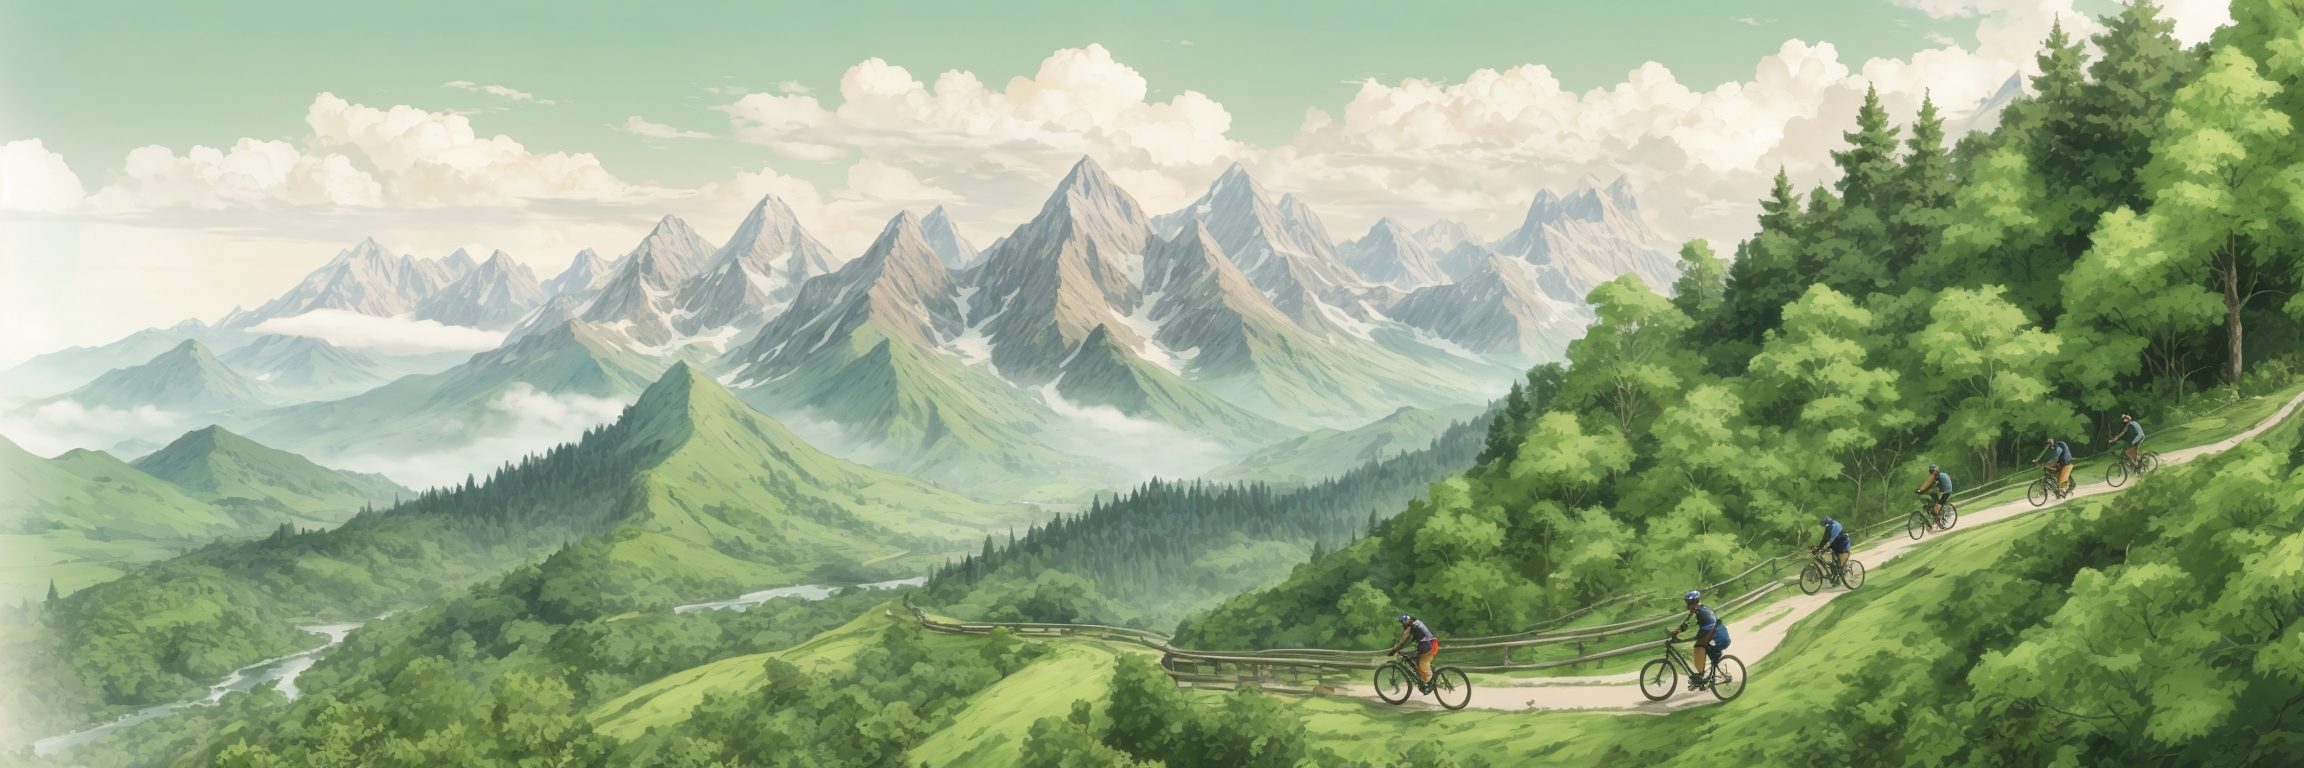
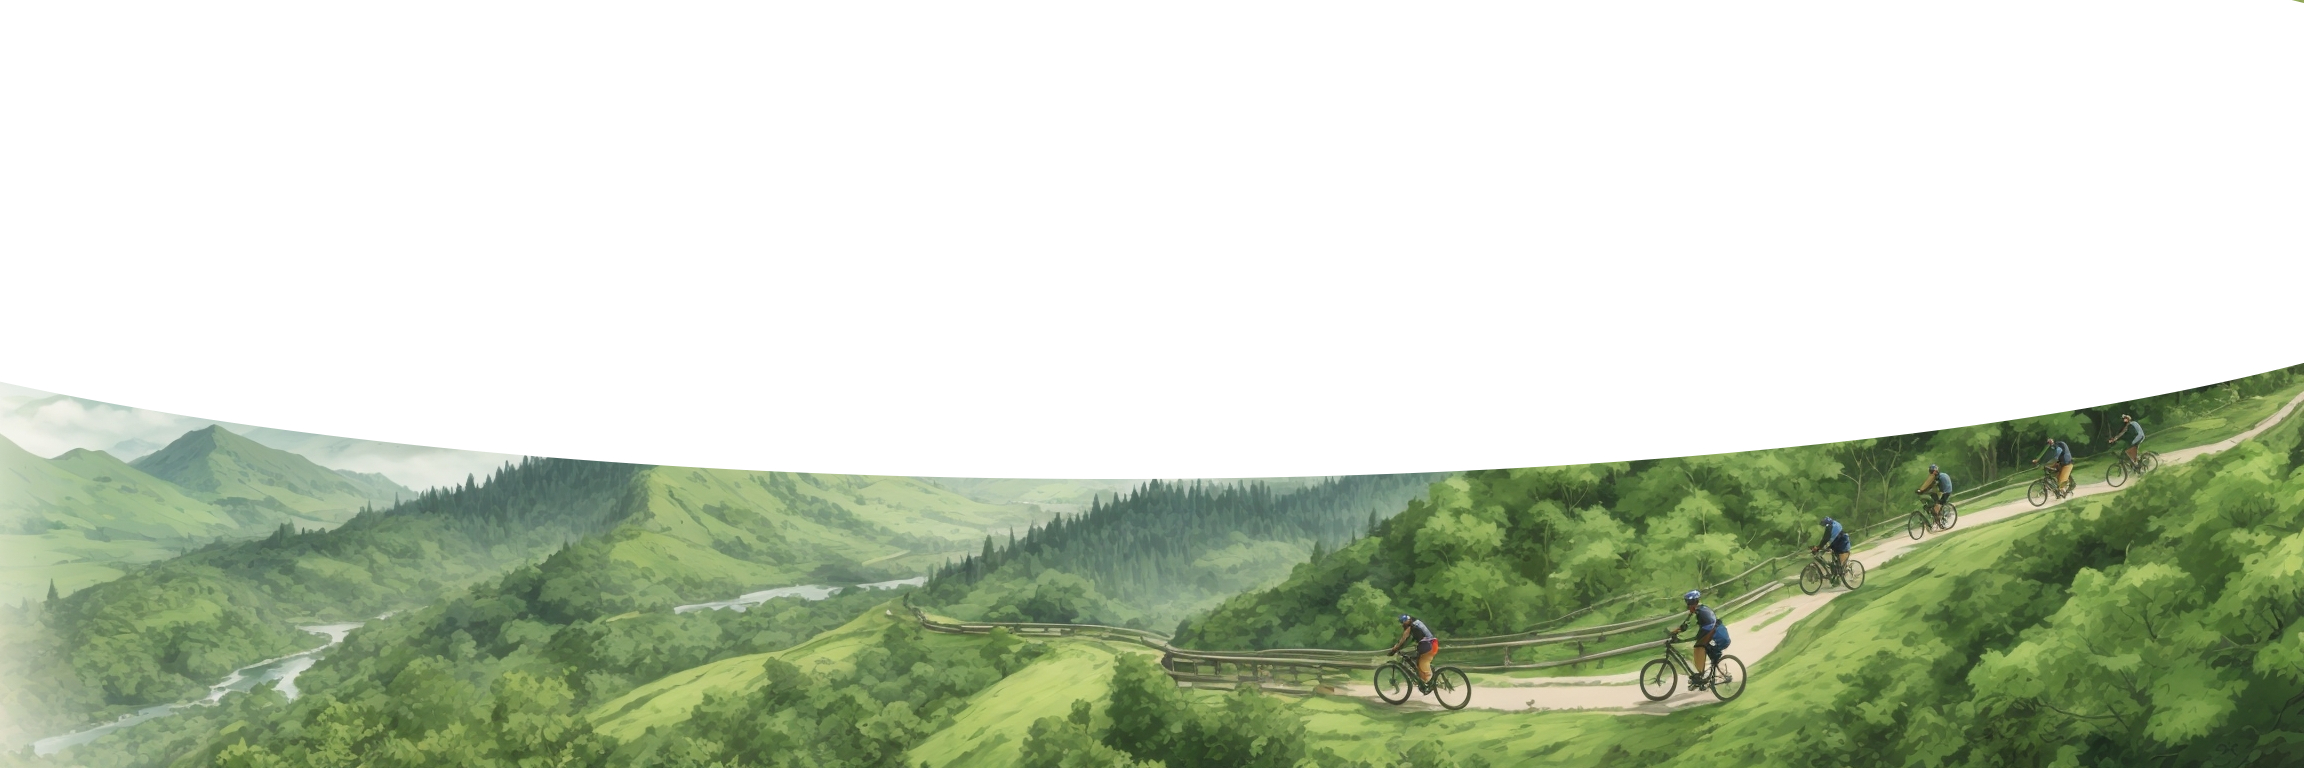
5

diff --git a/src/Components/Checkout.jsx b/src/Components/Checkout.jsx
@@ -1,13 +1,37 @@
-import styles from "../Styles/Checkout.module.css";
+import { useDispatch } from "react-redux";
+import { useLocation } from "react-router-dom";
+import { bookReservation } from "../State/Reducers/reservations.slice";
 import Header from "./Header";
 import Footer from "./Footer";
-import { useLocation } from "react-router-dom";
+import styles from "../Styles/Checkout.module.css";
 const Checkout = () => {
   const location = useLocation();
   const { totalPrice, formattedStartDate, formattedEndDate, name } =
     location.state;
+  const dispatch = useDispatch();
   const handleSubmit = (event) => {
     event.preventDefault();
+
+    const formData = {
+      firstName: event.target.elements.firstName.value,
+      lastName: event.target.elements.lastName.value,
+      companyName: event.target.elements.companyName.value,
+      country: event.target.elements.country.value,
+      street: event.target.elements.street.value,
+      postalCode: event.target.elements.postalCode.value,
+      city: event.target.elements.city.value,
+      phone: event.target.elements.phone.value,
+      email: event.target.elements.email.value,
+    };
+
+    dispatch(
+      bookReservation(
+        formData,
+        totalPrice,
+        formattedStartDate,
+        formattedEndDate
+      )
+    );
   };
   return (
     <div className={styles.checkout}>
@@ -72,7 +96,7 @@ const Checkout = () => {
                 <input className={styles.checkout_checkbox} type="checkbox" />
                 Płatność na miejscu
               </span>
-              <button type="sumbit" className={styles.checkout_sumbit}>
+              <button type="submit" className={styles.checkout_sumbit}>
                 Kupuję i płacę
               </button>
             </div>

diff --git a/src/Components/Reservation.jsx b/src/Components/Reservation.jsx
@@ -7,7 +7,7 @@ import {
   setPeriod,
   setSelectedDates,
   setReservedIndex,
-} from "../State/Reducers/bikesSlice.js";
+} from "../State/Reducers/bikes.slice.js";
 import "react-datepicker/dist/react-datepicker.css";
 import styles from "../Styles/Reservation.module.css";
 import { FaCalendar } from "react-icons/fa";
@@ -16,6 +16,8 @@ const Reservation = ({ index }) => {
   const dispatch = useDispatch();
   const selectedDates = useSelector((state) => state.bikes.selectedDates);
   const period = useSelector((state) => state.bikes.period);
+  const price = useSelector((state) => state.bikes.bikeInfo.price);
+  const totalPrice = period * price;
   const handleChange = (date, key) => {
     const timestamp = date.getTime();
     dispatch(setSelectedDates({ index, [key]: timestamp }));
@@ -56,6 +58,7 @@ const Reservation = ({ index }) => {
             </select>
             <FaCalendar className={styles.select_calendar} />
           </div>
+          <h3 className={styles.price}>Cena : {totalPrice}zł</h3>
         </div>
 
         <Link to={"/cart"}>

diff --git a/src/Styles/Header.module.css b/src/Styles/Header.module.css
@@ -1,17 +1,19 @@
 .header {
   display: flex;
-
+  align-items: center;
   background-color: transparent;
   color: black;
-
+  position: relative;
   width: 100vw;
   height: 60px;
   z-index: 9;
 }
 .header_p {
   margin-left: 100px;
+  font-size: 16px;
   text-decoration: underline;
   color: black;
+  display: none;
 }
 .hamburger_button {
   width: 56px;
@@ -20,4 +22,32 @@
   border: none;
   background-color: transparent;
   color: black;
+}
+.cart {
+  background-color: transparent;
+  position: absolute;
+  right: 10px;
+  top: 20px;
+}
+.logo {
+  width: 50px;
+  height: 50px;
+  border: 1px solid black;
+  margin-left: 40px;
+}
+@media screen and (min-width: 768px) {
+  .cart {
+    right: 180px;
+  }
+  .logo {
+    margin-left: 40px;
+  }
+  .header_p {
+    display: inline;
+  }
+}
+@media screen and (min-width: 1200px) {
+  .logo {
+    margin-left: 140px;
+  }
 }

diff --git a/src/Components/Header.jsx b/src/Components/Header.jsx
@@ -3,7 +3,7 @@ import { openMenu } from "../State/Actions/menu.actions.js";
 import Menu from "./Menu";
 import { Link } from "react-router-dom";
 import styles from "../Styles/Header.module.css";
-import { FaBars } from "react-icons/fa";
+import { FaBars, FaShoppingCart } from "react-icons/fa";
 
 const Header = () => {
   const isMenuOpen = useSelector((state) => state.menu.isMenuOpen);
@@ -20,6 +20,14 @@ const Header = () => {
       </button>
       <Link to={"/"}>
         <p className={styles.header_p}>Wypożyczalnia rowerów elektrycznych</p>
+      </Link>
+      <Link to={"/"}>
+        <div className={styles.logo}>LOGO</div>
+      </Link>
+      <Link to={"/cart"}>
+        <button className={styles.cart}>
+          <FaShoppingCart />
+        </button>
       </Link>
       {isMenuOpen && <Menu />}
     </div>

diff --git a/src/Components/Poster.jsx b/src/Components/Poster.jsx
@@ -1,5 +1,29 @@
+import { useState } from "react";
 import styles from "../Styles/Poster.module.css";
+
 const Poster = () => {
-  return <div className={styles.poster}></div>;
+  const [imageLoaded, setImageLoaded] = useState(false);
+  const isTablet = window.innerWidth >= 768;
+
+  const handleImageLoad = () => {
+    setImageLoaded(true);
+  };
+
+  return (
+    <div className={styles.poster}>
+      {!imageLoaded && <div className={styles.placeholder}></div>}
+      <img
+        src={
+          isTablet
+            ? "/assets/poster-shaped-tablet.jpg"
+            : "/assets/poster-shaped-mobile.jpg"
+        }
+        alt="Poster"
+        onLoad={handleImageLoad}
+        className={`${styles.image} ${imageLoaded ? styles.visible : ""}`}
+      />
+    </div>
+  );
 };
+
 export default Poster;

diff --git a/src/Components/AboutUs.jsx b/src/Components/AboutUs.jsx
@@ -2,12 +2,12 @@ import styles from "../Styles/AboutUs.module.css";
 const AboutUs = () => {
   return (
     <div className={styles.aboutus}>
-      <p className={styles.aboutus__p}>
-        Lorem ipsum dolor sit amet consectetur adipisicing elit. Natus numquam
-        voluptatum porro error ipsam optio assumenda blanditiis sint impedit
-        nobis veritatis neque facere ducimus, placeat, labore obcaecati
-        reprehenderit soluta magnam?
-      </p>
+      <h2>O nas :</h2>
+      <span className={styles.aboutus_span}>
+        Lorem, ipsum dolor sit amet consectetur adipisicing elit. Quisquam,
+        laboriosam ratione ipsam necessitatibus recusandae architecto iste quasi
+      </span>
+      <div className={styles.aboutus_wrapper}></div>
     </div>
   );
 };

diff --git a/src/Styles/Poster.module.css b/src/Styles/Poster.module.css
@@ -1,15 +1,31 @@
 .poster {
   height: 1056px;
   width: 100vw;
-  background-image: url("/assets/poster-mobile.jpg");
-  background-position: center;
-  background-size: cover;
+  position: relative;
+  overflow: hidden;
+}
+
+.placeholder {
+  filter: blur(10px);
+  width: 100%;
+  height: 100%;
+  position: absolute;
+  top: 0;
+  left: 0;
+}
+
+.image {
+  width: 100%;
+  height: 100%;
+  object-fit: cover;
+}
+
+.visible {
+  opacity: 1;
+  transition: opacity 0.5s ease-in-out;
 }
 @media screen and (min-width: 768px) {
   .poster {
-    background-image: url("/assets/poster-tablet.jpg");
-    height: 1536px;
+    height: 1568px;
   }
-}
-@media screen and (min-width: 1200px) {
 }

diff --git a/src/State/Reducers/reservations.slice.js b/src/State/Reducers/reservations.slice.js
@@ -1,0 +1,25 @@
+import { createSlice } from "@reduxjs/toolkit";
+
+export const reservationsSlice = createSlice({
+  name: "reservations",
+  initialState: {
+    data: [],
+  },
+  reducers: {
+    bookReservation: (state, action) => {
+      const { formData, name, startDate, endDate } = action.payload;
+      state.data.push({
+        formData,
+        name,
+        startDate,
+        endDate,
+      });
+    },
+  },
+});
+
+export const { bookReservation } = reservationsSlice.actions;
+
+export const selectReservations = (state) => state.reservations.data;
+
+export default reservationsSlice.reducer;

diff --git a/src/Styles/AboutUs.module.css b/src/Styles/AboutUs.module.css
@@ -2,10 +2,28 @@
   width: 100vw;
   height: 500px;
   margin-top: 200px;
-
+  position: relative;
   display: flex;
   justify-content: center;
+  flex-direction: column;
+  align-items: center;
 }
 .aboutus__p {
   max-width: 500px;
+}
+.aboutus_wrapper {
+  width: 320px;
+  height: 320px;
+  background-image: url("/assets/aboutus1.jpg");
+  background-position: center;
+  background-size: cover;
+  background-repeat: no-repeat;
+  border-radius: 50%;
+}
+.aboutus_span {
+  position: absolute;
+  top: 269px;
+  font-size: 10px;
+  z-index: 2;
+  width: 250px;
 }

diff --git a/src/State/Store/Store.js b/src/State/Store/Store.js
@@ -1,11 +1,13 @@
 import { configureStore } from "@reduxjs/toolkit";
-import bikesSlice from "../Reducers/bikesSlice";
-import menuSlice from "../Reducers/menuSlice";
+import bikesSlice from "../Reducers/bikes.slice";
+import menuSlice from "../Reducers/menu.slice";
+import reservationsSlice from "../Reducers/reservations.slice";
 
 const store = configureStore({
   reducer: {
     bikes: bikesSlice,
     menu: menuSlice,
+    reservations: reservationsSlice,
   },
 });
 

diff --git a/src/Components/Cart.jsx b/src/Components/Cart.jsx
@@ -1,7 +1,7 @@
 import Header from "./Header";
 import Footer from "./Footer";
 import { useSelector } from "react-redux/es/hooks/useSelector";
-import {} from "../State/Reducers/bikesSlice";
+import {} from "../State/Reducers/bikes.slice";
 import styles from "../Styles/Cart.module.css";
 import { useNavigate } from "react-router-dom";
 

diff --git a/src/State/Actions/reservation.actions.js b/src/State/Actions/reservation.actions.js
@@ -1,0 +1,13 @@
+export const BOOK_RESERVATION = "BOOK_RESERVATION";
+
+export const bookReservation = (formData, totalPrice, startDate, endDate) => {
+  return {
+    type: BOOK_RESERVATION,
+    payload: {
+      formData,
+      totalPrice,
+      startDate,
+      endDate,
+    },
+  };
+};
